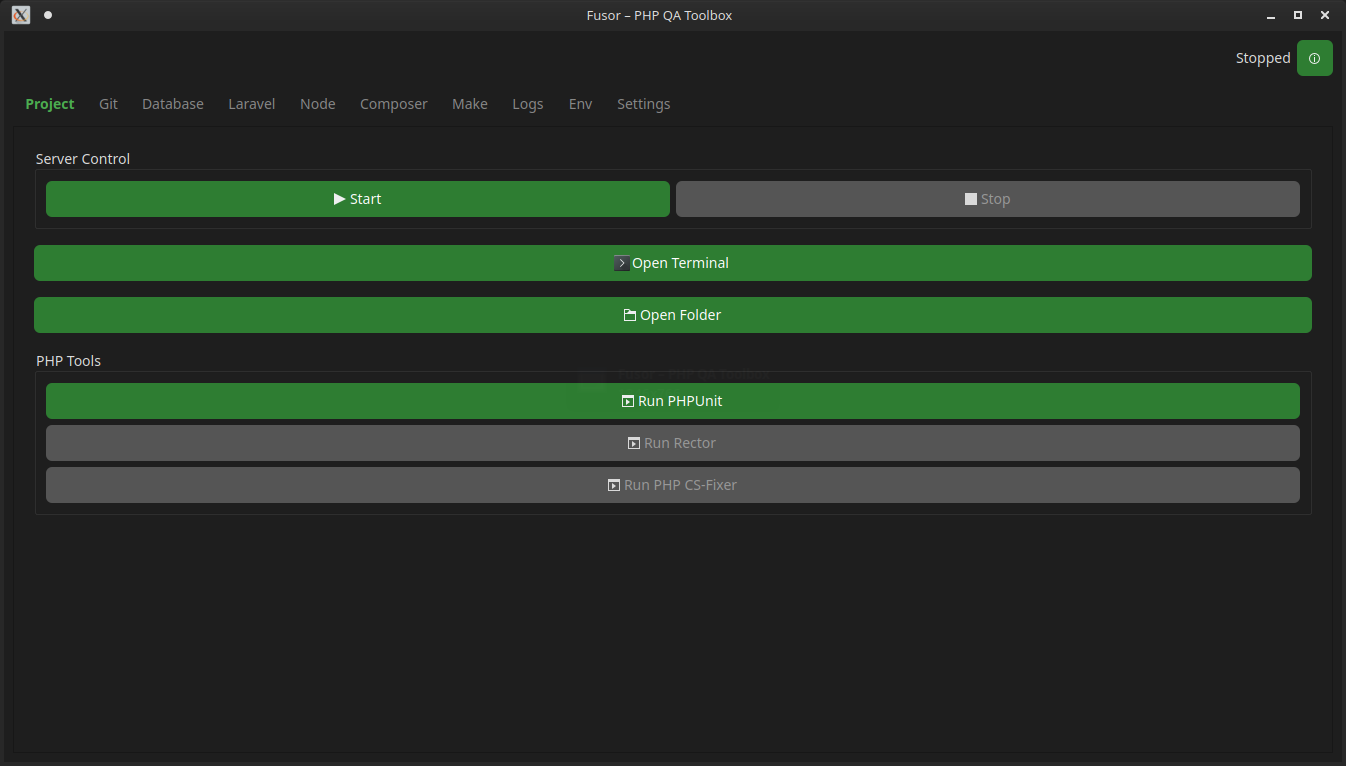
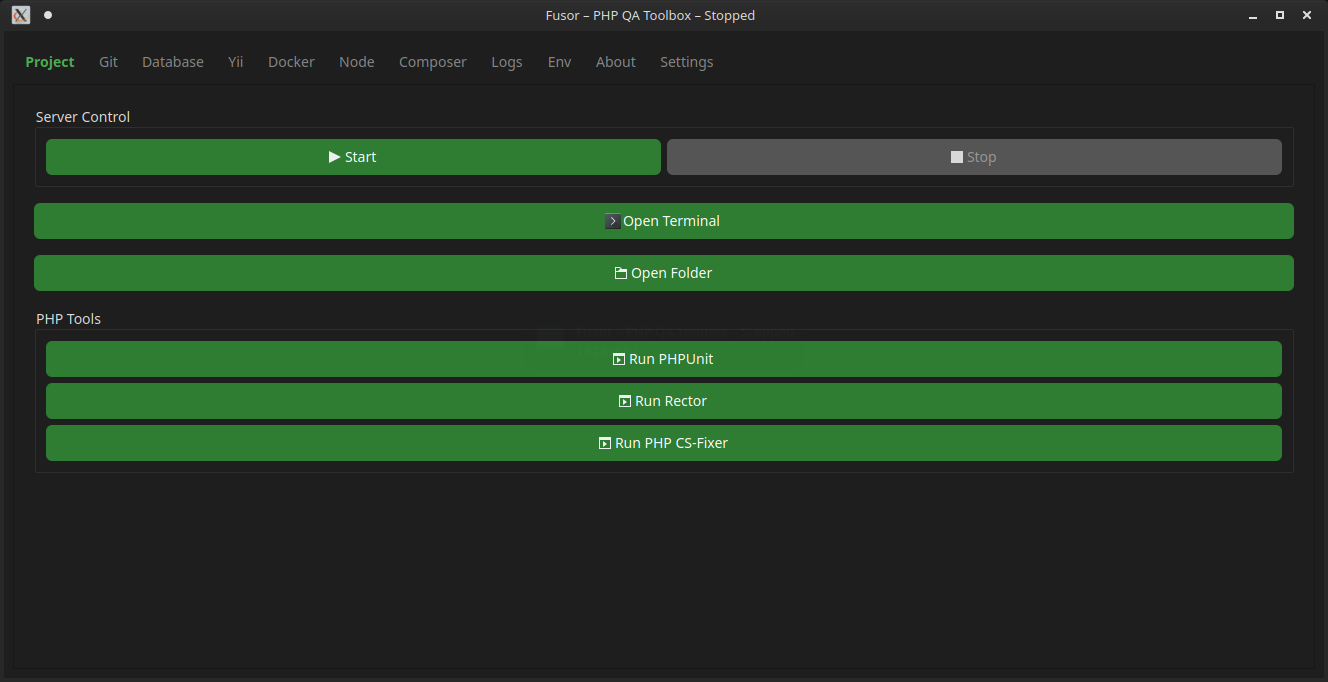
Replace About dialog with tab (#199)
* Replace About dialog with tab

* Remove status label and show status in title

* screenshot update

diff --git a/fusor/main_window.py b/fusor/main_window.py
@@ -14,14 +14,12 @@ from PyQt6.QtWidgets import (
     QTabWidget,
     QWidget,
     QVBoxLayout,
-    QHBoxLayout,
     QTextEdit,
     QMessageBox,
     QFileDialog,
     QInputDialog,
     QSystemTrayIcon,
     QMenu,
-    QLabel,
 )
 from PyQt6.QtCore import QTimer, pyqtSignal, Qt
 from PyQt6.QtGui import QShortcut, QKeySequence, QAction
@@ -62,6 +60,7 @@ from .tabs.logs_tab import LogsTab
 from .tabs.terminal_tab import TerminalTab
 from .tabs.env_tab import EnvTab
 from .tabs.settings_tab import SettingsTab
+from .tabs.about_tab import AboutTab
 
 # allow tests to monkeypatch file operations easily
 open = builtins.open
@@ -339,15 +338,6 @@ class MainWindow(QMainWindow):
         central_widget = QWidget()
         main_layout = QVBoxLayout(central_widget)
 
-        header_layout = QHBoxLayout()
-        header_layout.addStretch()
-        self.status_label = QLabel("Stopped")
-        header_layout.addWidget(self.status_label)
-        self.help_button = create_button("", "help-about", fixed=True)
-        self.help_button.clicked.connect(self.show_about_dialog)
-        header_layout.addWidget(self.help_button)
-        main_layout.addLayout(header_layout)
-
         main_layout.addWidget(self.tabs)
 
         self.output_view = QTextEdit()
@@ -471,6 +461,9 @@ class MainWindow(QMainWindow):
         self.terminal_tab = TerminalTab(self)
         self.terminal_index = self.tabs.addTab(self.terminal_tab, "Terminal")
 
+        self.about_tab = AboutTab(self)
+        self.about_index = self.tabs.addTab(self.about_tab, "About")
+
         self.settings_tab = SettingsTab(self)
         self.settings_index = self.tabs.addTab(self.settings_tab, "Settings")
         self.update_settings_tab_title()
@@ -548,6 +541,7 @@ class MainWindow(QMainWindow):
         self.tabs.currentChanged.connect(self.on_tab_changed)
         self.update_run_buttons()
         self._update_responsive_layout()
+        self.update_window_title()
 
     def resizeEvent(self, event):
         super().resizeEvent(event)
@@ -738,6 +732,10 @@ class MainWindow(QMainWindow):
             if hasattr(self.project_tab, "stop_btn"):
                 self.project_tab.stop_btn.setEnabled(self.project_running)
 
+    def update_window_title(self) -> None:
+        status = "Running" if self.project_running else "Stopped"
+        self.setWindowTitle(f"{APP_NAME} – PHP QA Toolbox – {status}")
+
     def _update_responsive_layout(self) -> None:
         """Adjust UI elements based on the current window size."""
         width = self.width()
@@ -746,7 +744,6 @@ class MainWindow(QMainWindow):
         self.output_view.setVisible(show_output)
         self.clear_output_button.setVisible(show_output)
 
-        self.help_button.setVisible(width >= 500)
 
         if hasattr(self, "logs_tab") and hasattr(
             self.logs_tab, "update_responsive_layout"
@@ -1617,7 +1614,7 @@ class MainWindow(QMainWindow):
             self.run_command(["docker", "compose", "up", "-d"])
             self.project_running = True
             self.update_run_buttons()
-            self.status_label.setText("Running")
+            self.update_window_title()
             self.notify("Project started")
             return
 
@@ -1676,7 +1673,7 @@ class MainWindow(QMainWindow):
             self.executor.submit(stream)
             self.project_running = True
             self.update_run_buttons()
-            self.status_label.setText("Running")
+            self.update_window_title()
             if self.open_browser:
                 webbrowser.open(f"http://localhost:{self.server_port}")
             self.notify("Project started")
@@ -1692,7 +1689,7 @@ class MainWindow(QMainWindow):
             self.run_command(["docker", "compose", "down"])
             self.project_running = False
             self.update_run_buttons()
-            self.status_label.setText("Stopped")
+            self.update_window_title()
             self.notify("Project stopped")
             return
 
@@ -1721,7 +1718,7 @@ class MainWindow(QMainWindow):
             print("Project is not running")
         self.project_running = False
         self.update_run_buttons()
-        self.status_label.setText("Stopped")
+        self.update_window_title()
         self.notify("Project stopped")
         if self.tray_enabled:
             self._update_tray_menu()
@@ -1761,12 +1758,6 @@ class MainWindow(QMainWindow):
         if self._tray_icon is not None:
             self._tray_icon.hide()
         super().closeEvent(event)
-
-    def show_about_dialog(self) -> None:
-        from .about_dialog import AboutDialog
-
-        dlg = AboutDialog(self)
-        dlg.exec()
 
     def on_tab_changed(self, index: int) -> None:
         if index == getattr(self, "git_index", -1):

diff --git a/tests/test_main_window.py b/tests/test_main_window.py
@@ -12,7 +12,7 @@ from PyQt6.QtCore import QTimer, Qt
 import fusor.main_window as mw_module
 from fusor.main_window import MainWindow
 from fusor import APP_NAME
-from PyQt6.QtWidgets import QMainWindow, QMessageBox, QFileDialog
+from PyQt6.QtWidgets import QMainWindow, QMessageBox, QFileDialog, QLabel
 from fusor.tabs.git_tab import GitTab
 
 # ---------------------------------------------------------------------------
@@ -685,21 +685,15 @@ class TestMainWindow:
         qtbot.wait(10)
         assert main_window.tabs.tabText(idx) == "Settings"
 
-    def test_help_button_opens_dialog(self, main_window, qtbot, monkeypatch):
-        shown = []
+    def test_about_tab_displays_info(self, main_window, qtbot):
+        idx = main_window.tabs.indexOf(main_window.about_tab)
+        assert main_window.tabs.tabText(idx) == "About"
 
-        def fake_exec(self):
-            shown.append(self.windowTitle())
+        main_window.tabs.setCurrentIndex(idx)
+        qtbot.wait(10)
 
-        monkeypatch.setattr(
-            "fusor.about_dialog.AboutDialog.exec",
-            fake_exec,
-            raising=True,
-        )
-
-        qtbot.mouseClick(main_window.help_button, Qt.MouseButton.LeftButton)
-
-        assert shown == [f"About {APP_NAME}"]
+        texts = [lbl.text() for lbl in main_window.about_tab.findChildren(QLabel)]
+        assert any(text.startswith("Version:") for text in texts)
 
     def test_remove_project_updates_config(self, qtbot, monkeypatch):
         monkeypatch.setattr(QTimer, "singleShot", lambda *a, **k: None, raising=True)
@@ -1384,7 +1378,7 @@ class TestMainWindow:
         main_window.stop_project()
         assert (APP_NAME, "Project stopped") in notified
 
-    def test_status_label_updates_on_start_stop(self, tmp_path: Path, main_window, monkeypatch):
+    def test_window_title_updates_on_start_stop(self, tmp_path: Path, main_window, monkeypatch):
         class DummyProc:
             stdout: list[str] = []
 
@@ -1405,13 +1399,13 @@ class TestMainWindow:
         (tmp_path / "public").mkdir()
         main_window.framework_choice = "None"
 
-        assert main_window.status_label.text() == "Stopped"
+        assert "Stopped" in main_window.windowTitle()
 
         main_window.start_project()
-        assert main_window.status_label.text() == "Running"
+        assert "Running" in main_window.windowTitle()
 
         main_window.stop_project()
-        assert main_window.status_label.text() == "Stopped"
+        assert "Stopped" in main_window.windowTitle()
 
     def test_ctrl_s_saves_settings(self, qtbot, monkeypatch):
         monkeypatch.setattr(QTimer, "singleShot", lambda *a, **k: None, raising=True)

diff --git a/fusor/tabs/about_tab.py b/fusor/tabs/about_tab.py
@@ -1,0 +1,24 @@
+from PyQt6.QtWidgets import QWidget, QVBoxLayout, QLabel
+from PyQt6.QtCore import Qt
+
+from .. import APP_NAME, __version__, DESCRIPTION, AUTHOR
+from ..ui import CONTENT_MARGIN, DEFAULT_SPACING
+
+
+class AboutTab(QWidget):
+    """Display basic application information."""
+
+    def __init__(self, main_window):
+        super().__init__()
+        layout = QVBoxLayout(self)
+        layout.setContentsMargins(CONTENT_MARGIN, CONTENT_MARGIN, CONTENT_MARGIN, CONTENT_MARGIN)
+        layout.setSpacing(DEFAULT_SPACING)
+
+        title = QLabel(f"<h2>{APP_NAME}</h2>")
+        title.setAlignment(Qt.AlignmentFlag.AlignCenter)
+        layout.addWidget(title)
+
+        layout.addWidget(QLabel(f"Version: {__version__}"))
+        layout.addWidget(QLabel(f"Author: {AUTHOR}"))
+        layout.addWidget(QLabel(DESCRIPTION))
+        layout.addStretch(1)

diff --git a/fusor/tabs/__init__.py b/fusor/tabs/__init__.py
@@ -4,5 +4,14 @@ from .env_tab import EnvTab
 from .node_tab import NodeTab
 from .composer_tab import ComposerTab
 from .makefile_tab import MakefileTab
+from .about_tab import AboutTab
 
-__all__ = ["SymfonyTab", "YiiTab", "EnvTab", "NodeTab", "MakefileTab", "ComposerTab"]
+__all__ = [
+    "SymfonyTab",
+    "YiiTab",
+    "EnvTab",
+    "NodeTab",
+    "MakefileTab",
+    "ComposerTab",
+    "AboutTab",
+]
